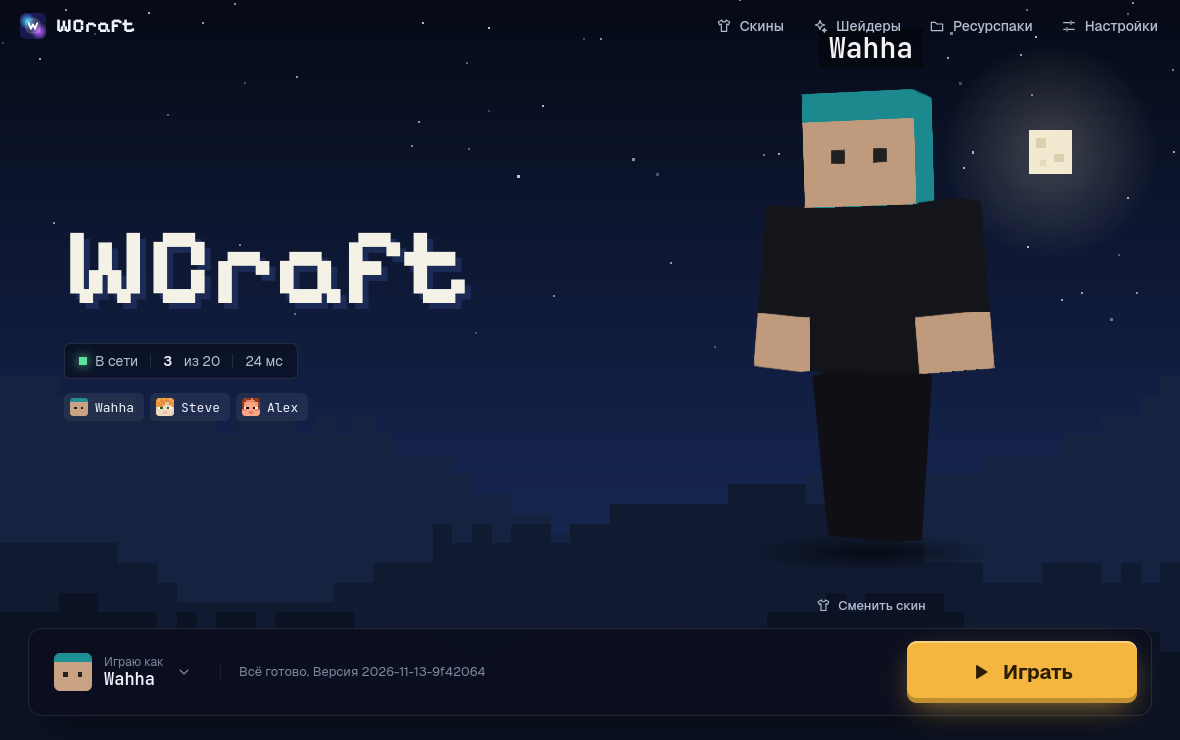
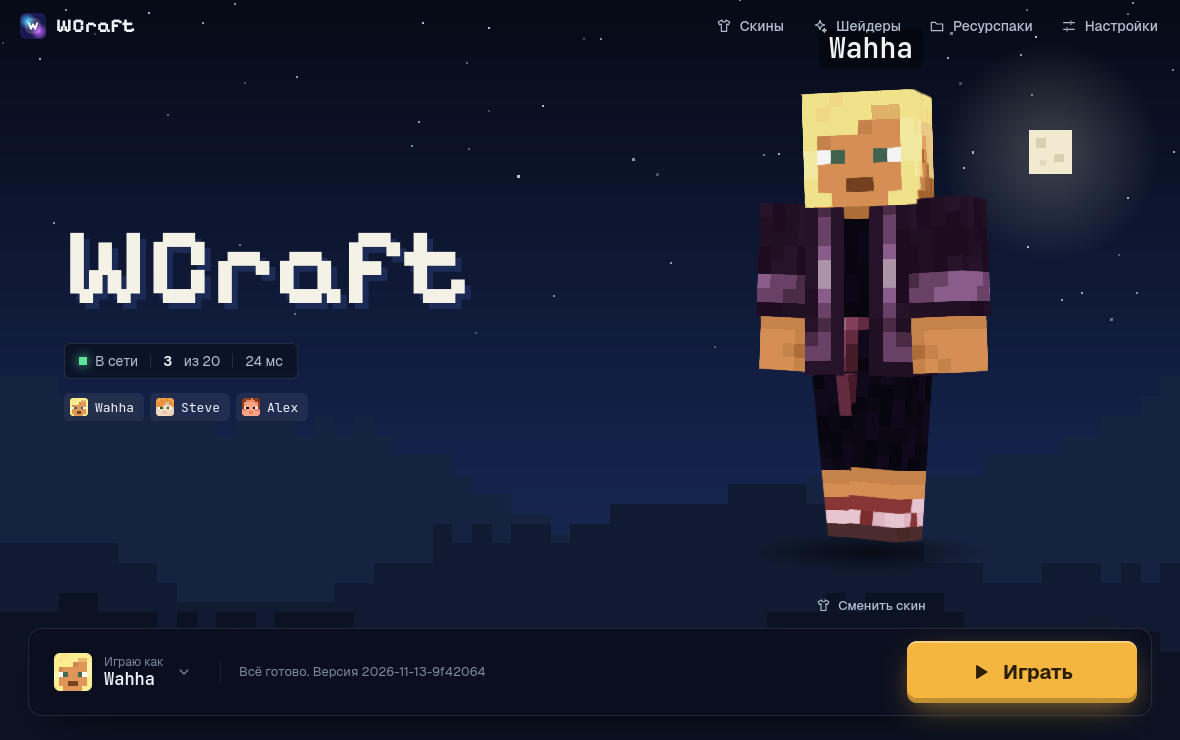
Mock: wear a real bundled skin instead of the made-up one; retake screenshots

diff --git a/src/lib/mock.ts b/src/lib/mock.ts
@@ -10,37 +10,14 @@ if (params.has('shot')) new Image().src = '/__slow'
 // `?click` presses the main button, to look at the busy states.
 if (params.has('click')) setTimeout(() => document.querySelector<HTMLElement>('.play')?.click(), 700)
 
-/** A made-up skin: flat colours where the head, body, arms and legs are. */
-function fakeSkin(hair: string, skin: string, shirt: string, legs: string): string {
-  const c = document.createElement('canvas')
-  c.width = c.height = 64
-  const g = c.getContext('2d')!
-  const fill = (color: string, x: number, y: number, w: number, h: number) => {
-    g.fillStyle = color
-    g.fillRect(x, y, w, h)
-  }
-  fill(hair, 0, 0, 32, 16)
-  fill(skin, 8, 8, 8, 8)
-  fill(hair, 8, 8, 8, 2)
-  fill('#222', 10, 12, 1, 1)
-  fill('#222', 13, 12, 1, 1)
-  fill(shirt, 16, 16, 24, 16)
-  fill(shirt, 40, 16, 16, 16)
-  fill(skin, 44, 28, 12, 4)
-  fill(legs, 0, 16, 16, 16)
-  fill(legs, 16, 48, 16, 16)
-  fill(shirt, 32, 48, 16, 16)
-  fill(skin, 36, 60, 12, 4)
-  return c.toDataURL()
-}
-
 // The real default skins the launcher bundles.
 const bundled = import.meta.glob<string>('../../src-tauri/skins/*.png', { eager: true, query: '?url', import: 'default' })
 const SLIM = ['alex', 'efe', 'makena', 'noor']
+const mine = Object.entries(bundled).find(([path]) => path.endsWith('/kai.png'))![1]
 
 const library: Library = {
   active: 'mine',
-  saved: [{ id: 'mine', name: 'Мой скин', model: 'classic', url: fakeSkin('#1d8f95', '#c9a183', '#15151c', '#101016') }],
+  saved: [{ id: 'mine', name: 'Мой скин', model: 'classic', url: mine }],
   defaults: Object.entries(bundled).map(([path, url]) => {
     const id = path.split('/').pop()!.replace('.png', '')
     return { id: `default:${id}`, name: id[0].toUpperCase() + id.slice(1), model: SLIM.includes(id) ? 'slim' : 'classic', url }
